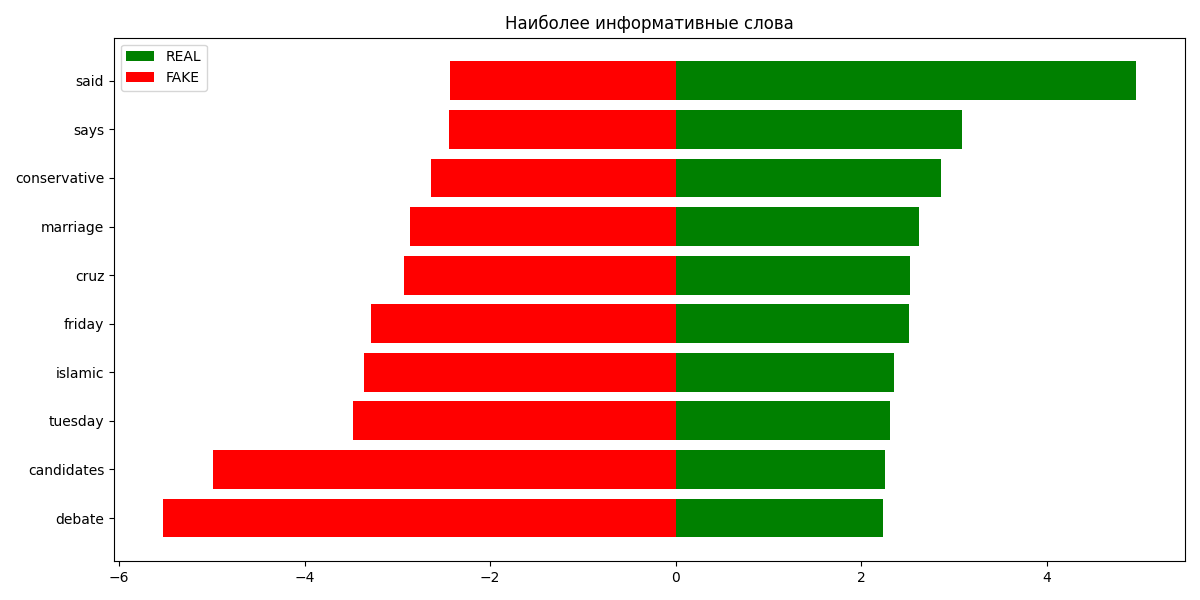
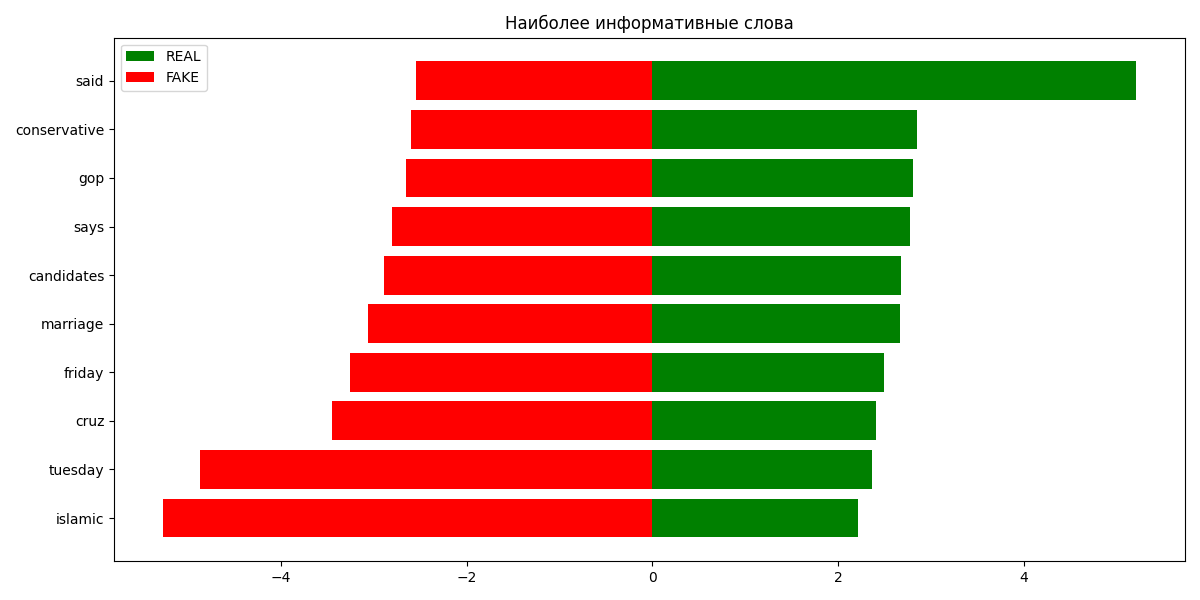
добавлены заголовки новости

diff --git a/run.py b/run.py
@@ -25,7 +25,9 @@ def preprocess_data(df: DataFrame):
     """ предобработка данных датасета """
     df.dropna(inplace=True)
 
-    X = df['text']
+    df['content'] = df['title'] + ' ' + df['text']
+
+    X = df['content']
     Y = df['label']
 
     X_train, X_test, Y_train, Y_test = train_test_split(X, Y, test_size=0.2, random_state=42)
